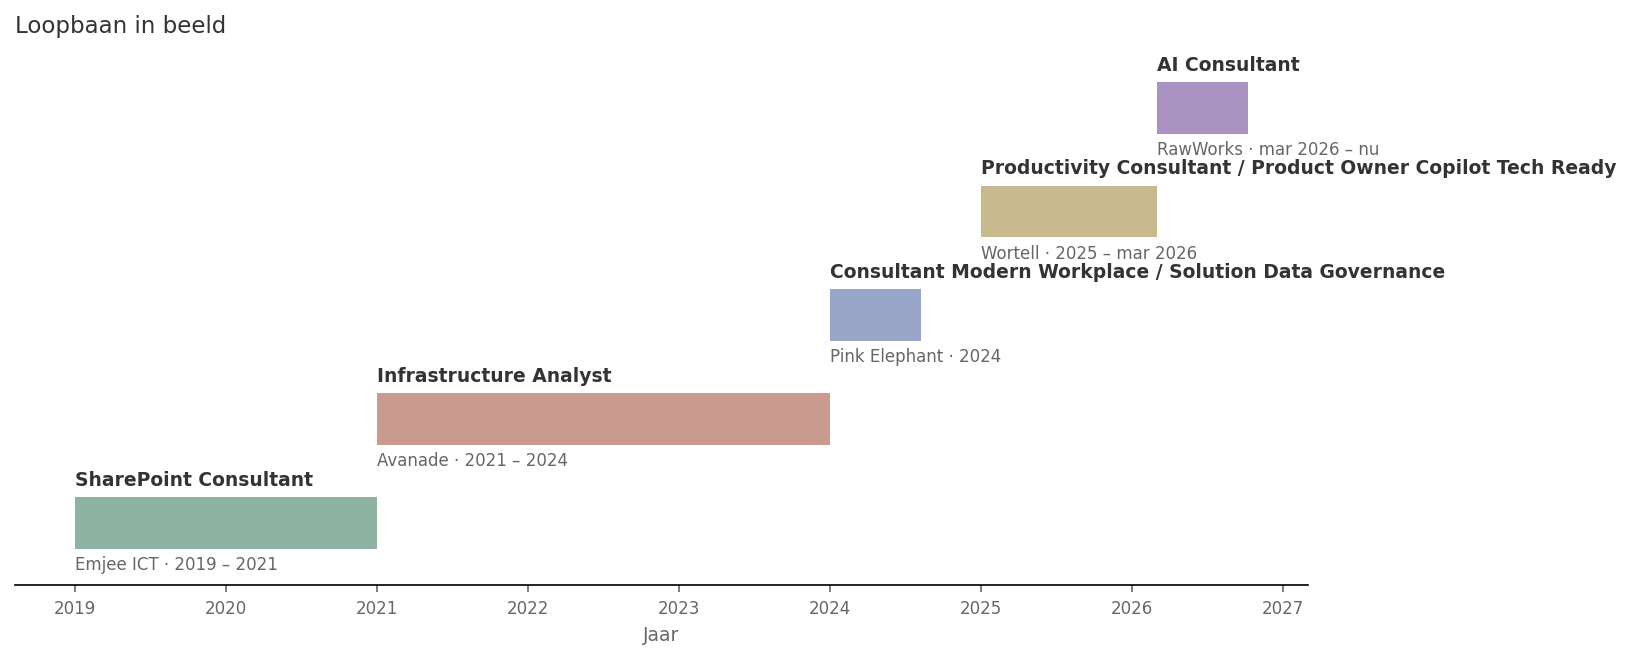
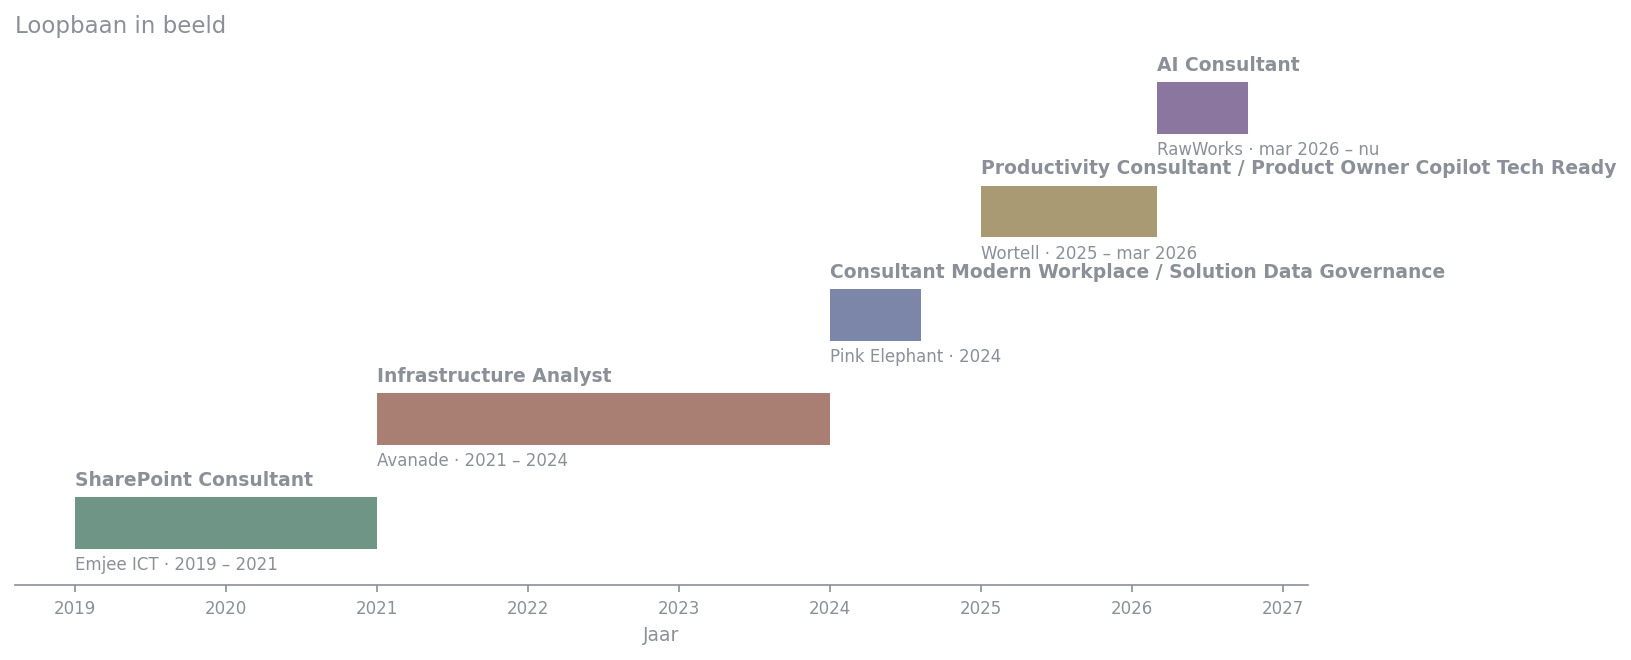
v2: Prompt Shields-label en print/download bij de vacature-check, tokengebruik onder chatantwoorden, tijdlijn in thema-kleuren
- match.js: label "gecontroleerd door Prompt Shields" bij een geslaagde check, knop "Download
  als PDF" (window.print()); styles.css krijgt een @media print voor alleen het matchresultaat.
- main.js: chatbericht toont model, tokengebruik en latency onder het antwoord van de agent.
- img/timeline.png: opnieuw gegenereerd met middengrijze tekst/assen, leesbaar op licht en donker.

diff --git a/src/styles.css b/src/styles.css
@@ -406,6 +406,8 @@ h3 { font-size: 1.1rem; letter-spacing: -.01em; margin: 0 0 8px; font-weight: 60
 .match-questions h4 { margin: 0 0 6px; font-size: .9rem; }
 .match-questions ol { margin: 0 0 12px; padding-left: 20px; color: var(--muted); font-size: .9rem; }
 .match-src { margin: 0; font: 400 .72rem var(--mono); color: var(--faint); }
+.match-print { margin-top: 16px; border: 1px solid var(--line-2); border-radius: 999px; padding: 9px 18px; background: transparent; color: var(--fg); font: inherit; font-weight: 600; cursor: pointer; }
+.match-print:hover { border-color: var(--fg); }
 
 /* Vertrouwen */
 .trust { display: grid; grid-template-columns: repeat(auto-fit, minmax(240px, 1fr)); gap: 16px; max-width: 820px; margin-bottom: 16px; }
@@ -427,3 +429,14 @@ h3 { font-size: 1.1rem; letter-spacing: -.01em; margin: 0 0 8px; font-weight: 60
 .timeline-img { margin: 28px 0 0; padding: 0; max-width: 820px; }
 .timeline-img img { width: 100%; height: auto; border: 1px solid var(--line); border-radius: 16px; background: var(--card); }
 .timeline-img figcaption { margin-top: 8px; font: 400 .78rem var(--mono); color: var(--faint); }
+
+/* Matchresultaat printen/downloaden als PDF: alleen het resultaat op papier, de rest van de pagina weg. */
+@media print {
+  body * { visibility: hidden; }
+  .match-result, .match-result * { visibility: visible; }
+  .match-result { position: absolute; inset: 0 auto auto 0; width: 100%; margin: 0; border: 0; background: #fff; color: #000; padding: 0; }
+  .match-print { display: none; }
+  .match-score { background: none; color: #000; border: 2px solid #000; }
+  .req { border-color: #999; }
+  .req-status { background: none !important; border: 1px solid #999; color: #000 !important; }
+}

diff --git a/src/main.js b/src/main.js
@@ -35,7 +35,7 @@ const form = document.getElementById('chat-form');
 const input = document.getElementById('chat-input');
 let previousResponseId = null;
 
-function bubble(who, text, src) {
+function bubble(who, text, src, meta) {
   const el = document.createElement('div');
   el.className = 'msg ' + who;
   // textContent, geen innerHTML: een antwoord van het model kan nooit HTML of scripts injecteren.
@@ -46,9 +46,23 @@ function bubble(who, text, src) {
     s.textContent = src;
     el.appendChild(s);
   }
+  if (meta) {
+    const m = document.createElement('span');
+    m.className = 'src meta';
+    m.textContent = meta;
+    el.appendChild(m);
+  }
   chat.appendChild(el);
   chat.scrollTop = chat.scrollHeight;
   return el;
+}
+
+function chatMeta(model, tokens, latencyMs) {
+  const parts = [];
+  if (model) parts.push(model);
+  if (tokens) parts.push(`${(tokens / 1000).toFixed(1)}k tokens`);
+  if (latencyMs) parts.push(`${(latencyMs / 1000).toFixed(1)} s`);
+  return parts.length ? parts.join(' · ') : undefined;
 }
 
 function typing() {
@@ -104,7 +118,7 @@ if (chat && form) {
       if (res.ok) {
         previousResponseId = data.response_id;
         const src = data.sources && data.sources.length ? `bron: ${data.sources.join(', ')}` : undefined;
-        bubble('bot', data.answer, src);
+        bubble('bot', data.answer, src, chatMeta(data.model, data.tokens, data.latency_ms));
         showFollowups(data.followups);
       } else {
         bubble('bot', data.error || 'Er ging iets mis. Probeer het zo nog eens.');

diff --git a/src/match.js b/src/match.js
@@ -53,7 +53,13 @@
     (d.interview_questions || []).forEach((q) => ol.append(el('li', '', q)));
     qs.append(ol);
 
-    out.append(head, list, qs, el('p', 'match-src', `bron: ${d.source === 'pdf' ? 'PDF via Content Understanding' : 'geplakte tekst'} · agent: cv-matcher · structured output`));
+    const srcLine = `bron: ${d.source === 'pdf' ? 'PDF via Content Understanding' : 'geplakte tekst'} · agent: cv-matcher · structured output`;
+    out.append(head, list, qs, el('p', 'match-src', d.shield === 'passed' ? `${srcLine} · gecontroleerd door Prompt Shields` : srcLine));
+
+    const printBtn = el('button', 'match-print', 'Download als PDF');
+    printBtn.type = 'button';
+    printBtn.addEventListener('click', () => window.print());
+    out.append(printBtn);
   }
 
   form.addEventListener('submit', async (e) => {
